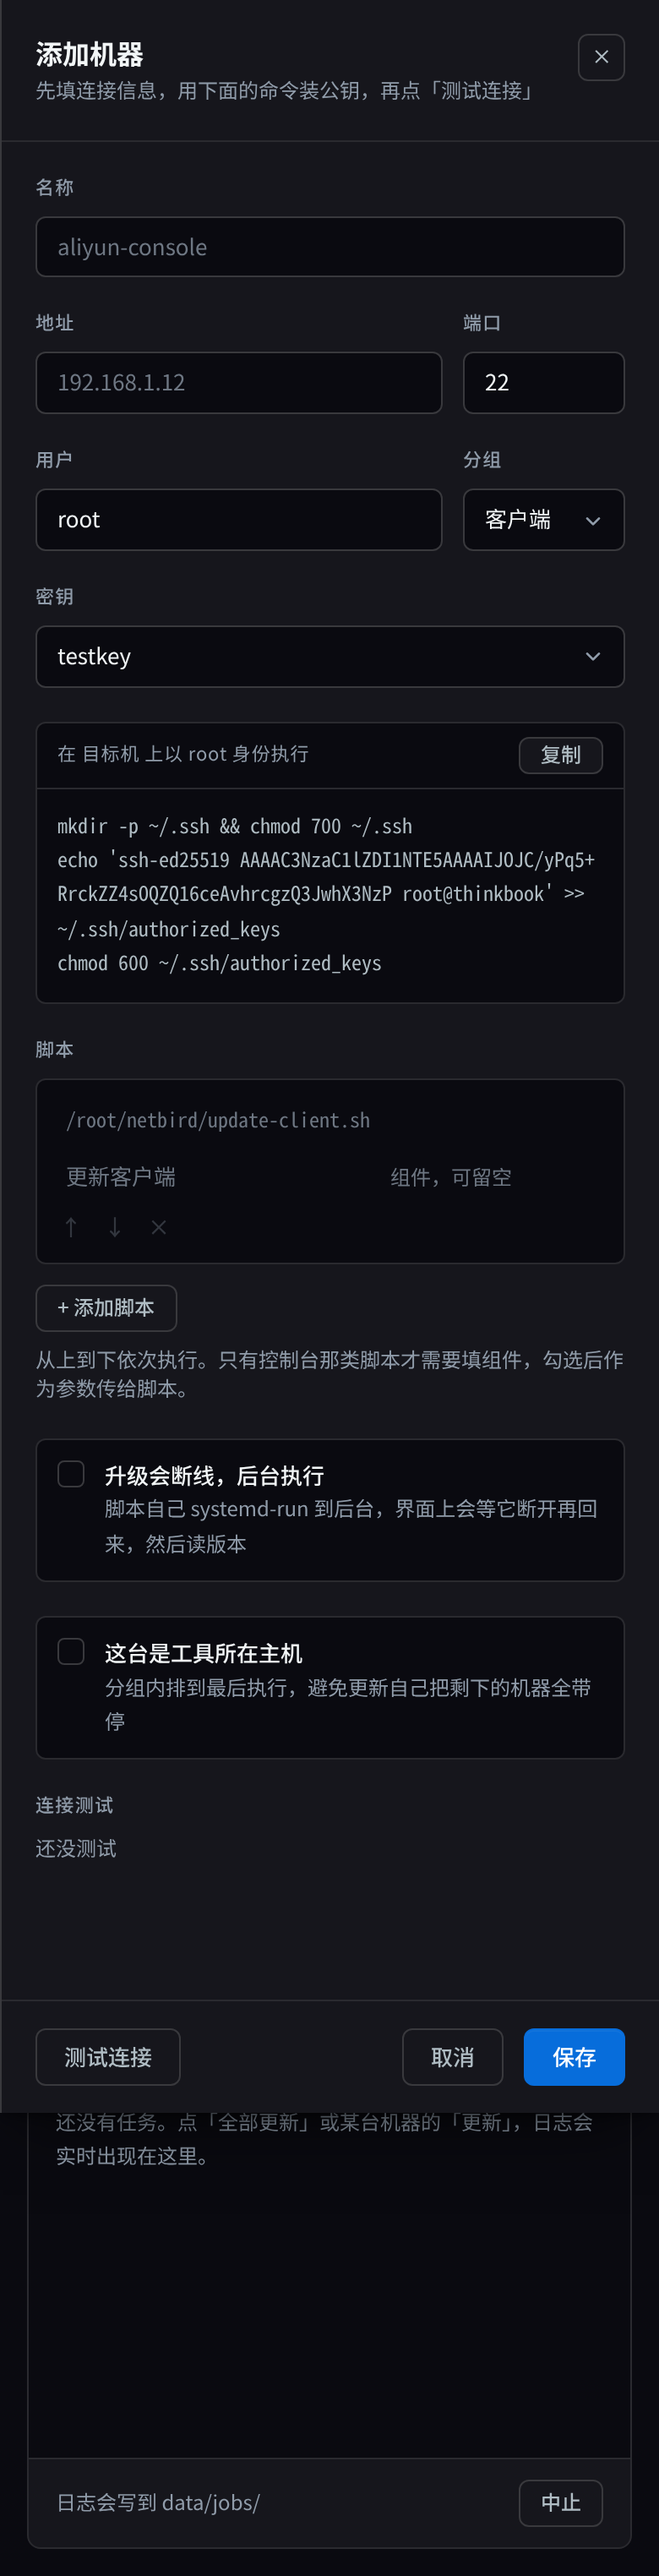
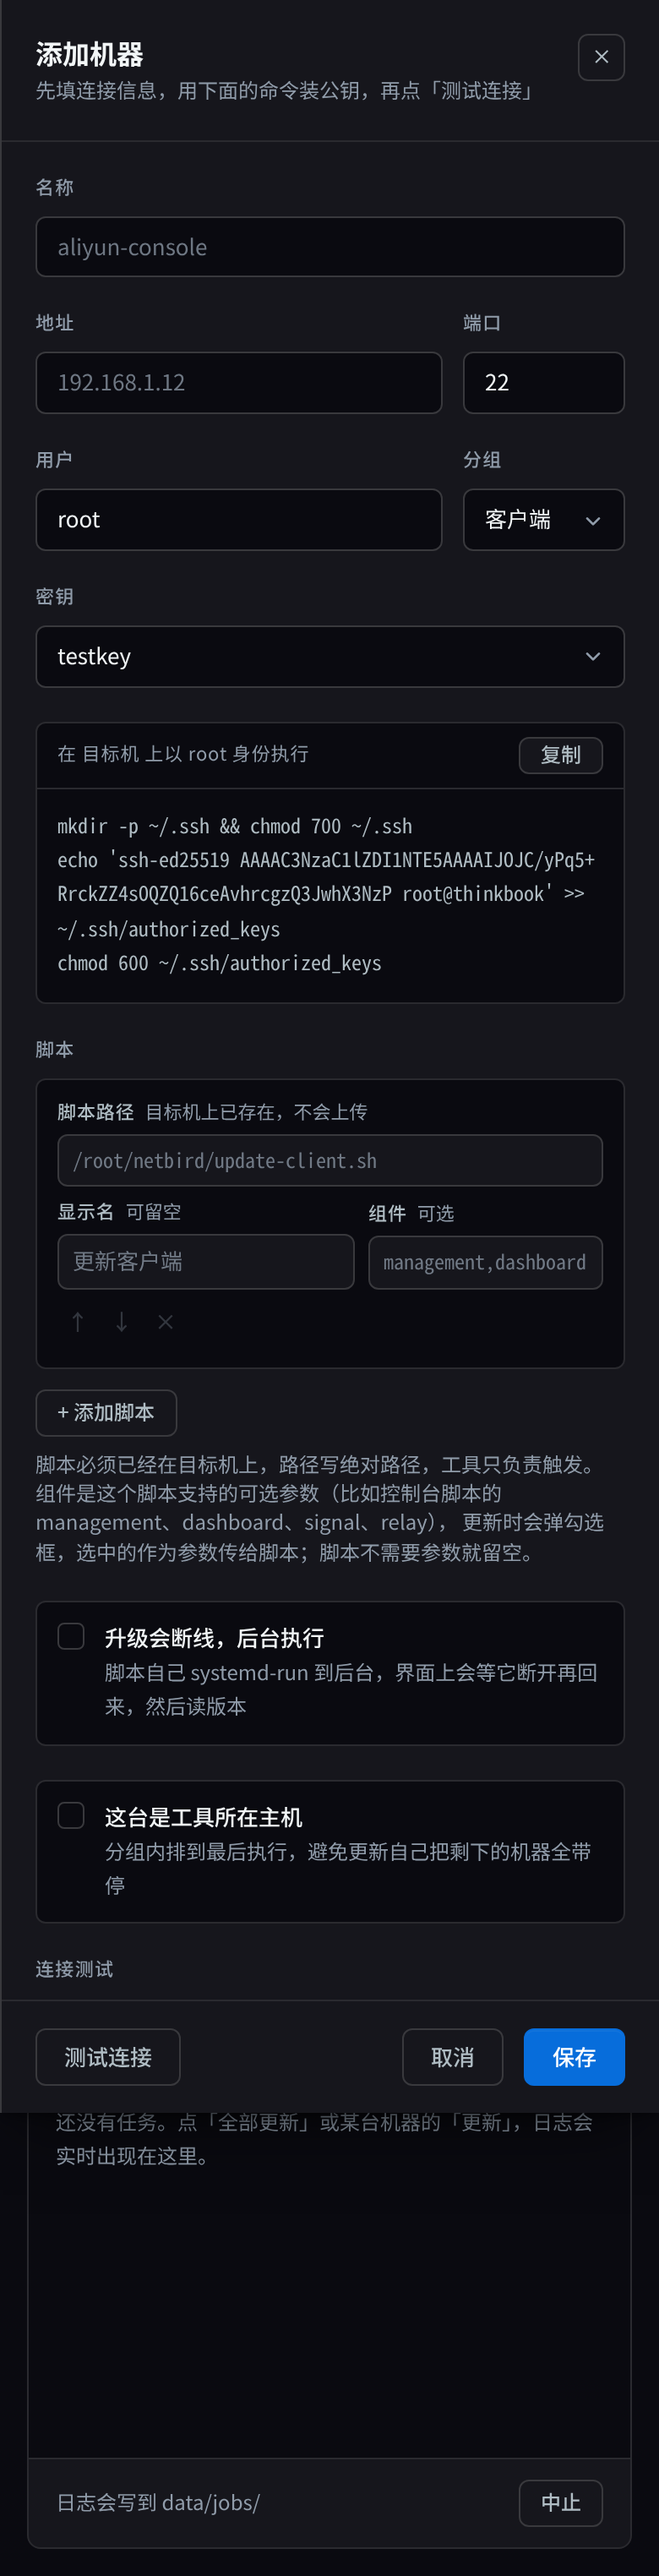
脚本行加字段标签和说明，密钥下拉说清「不使用密钥」的含义
- 每个脚本行：脚本路径（目标机上已存在）/ 显示名（可留空）/ 组件（可选），带小字说明
- 字段下方补一段解释：脚本不上传、组件是什么、怎么传给脚本
- 脚本输入框恢复可见边框，别再像纯文本
- 密钥下拉把「不使用密钥」挪到最后并写明它依赖默认 SSH 身份
- 没有密钥时下拉直接提示先去添加

diff --git a/static/app.js b/static/app.js
@@ -429,25 +429,47 @@ function confirmUpdate(hosts) {
 
 // ---------- 脚本行编辑器 ----------
 
+function scriptField(text, hint, input, wide = false) {
+  return el(
+    "label",
+    { class: `script-field${wide ? " script-field-wide" : ""}` },
+    el("span", { class: "script-label" }, text, hint ? el("span", { class: "script-label-hint", text: hint }) : null),
+    input,
+  );
+}
+
 function scriptRow(data = {}) {
   const row = el(
     "div",
     { class: "script-row" },
-    el("input", {
-      class: "input mono",
-      "data-f": "path",
-      placeholder: "/root/netbird/update-client.sh",
-      value: data.path || "",
-      spellcheck: "false",
-    }),
-    el("input", { class: "input", "data-f": "label", placeholder: "更新客户端", value: data.label || "" }),
-    el("input", {
-      class: "input mono",
-      "data-f": "options",
-      placeholder: "组件，可留空",
-      value: (data.options || []).join(","),
-      spellcheck: "false",
-    }),
+    scriptField(
+      "脚本路径",
+      "目标机上已存在，不会上传",
+      el("input", {
+        class: "input mono",
+        "data-f": "path",
+        placeholder: "/root/netbird/update-client.sh",
+        value: data.path || "",
+        spellcheck: "false",
+      }),
+      true,
+    ),
+    scriptField(
+      "显示名",
+      "可留空",
+      el("input", { class: "input", "data-f": "label", placeholder: "更新客户端", value: data.label || "" }),
+    ),
+    scriptField(
+      "组件",
+      "可选",
+      el("input", {
+        class: "input mono",
+        "data-f": "options",
+        placeholder: "management,dashboard",
+        value: (data.options || []).join(","),
+        spellcheck: "false",
+      }),
+    ),
     el(
       "div",
       { class: "script-tools" },
@@ -493,10 +515,17 @@ function collectScripts() {
 function fillKeys(selected) {
   const select = $("#f-key");
   select.textContent = "";
-  select.append(el("option", { value: "", text: state.keys.length ? "（不使用密钥 / 用默认 agent）" : "（还没有密钥）" }));
   for (const key of state.keys) {
     select.append(el("option", { value: key.name, text: key.name, selected: key.name === selected }));
   }
+  // 留一个「不用密钥」的口子：只适合在容器外跑、且依赖 ssh-agent / ~/.ssh 默认身份的场景
+  select.append(
+    el("option", {
+      value: "",
+      text: state.keys.length ? "不使用密钥（依赖默认 SSH 身份，容器里通常没有）" : "还没有密钥，先到下面「SSH 密钥」添加",
+      selected: !selected,
+    }),
+  );
 }
 
 function updateBootstrap() {

diff --git a/static/style.css b/static/style.css
@@ -1290,27 +1290,49 @@ input[type="number"]::-webkit-inner-spin-button {
 .script-row {
   display: grid;
   grid-template-columns: minmax(0, 1fr) minmax(0, 1fr) auto;
-  gap: 2px var(--s-2);
-  align-items: center;
-  padding: var(--s-2);
+  gap: var(--s-2);
+  align-items: end;
+  padding: var(--s-3);
   border: 1px solid var(--border);
   border-radius: var(--r-sm);
   background: var(--surface-0);
 }
 
-/* 路径独占一行：460px 的抽屉里三列并排会把路径挤得看不见 */
-.script-row [data-f="path"] {
+/* 路径独占一行：抽屉里三列并排会把路径挤得看不见 */
+.script-field-wide {
   grid-column: 1 / -1;
 }
 
-.script-row .input {
-  border-color: transparent;
-  background: transparent;
-  padding: 6px var(--s-2);
+.script-field {
+  display: flex;
+  flex-direction: column;
+  gap: 4px;
+  min-width: 0;
 }
 
-.script-row .input:hover {
-  border-color: var(--border);
+.script-label {
+  display: flex;
+  align-items: baseline;
+  gap: 6px;
+  font-size: var(--fs-label);
+  font-weight: 500;
+  letter-spacing: 0.04em;
+  color: var(--text-2);
+}
+
+.script-label-hint {
+  font-weight: 400;
+  letter-spacing: 0;
+  color: var(--text-3);
+}
+
+.script-row .script-tools {
+  padding-bottom: 2px;
+}
+
+.script-row .input {
+  padding: 6px var(--s-2);
+  background: var(--surface-1);
 }
 
 .script-row .input:focus {

diff --git a/static/index.html b/static/index.html
@@ -151,7 +151,11 @@
           <label>脚本</label>
           <div class="script-rows" id="script-rows"></div>
           <button class="btn btn-ghost btn-sm script-add" id="btn-add-script" type="button">+ 添加脚本</button>
-          <span class="hint">从上到下依次执行。只有控制台那类脚本才需要填组件，勾选后作为参数传给脚本。</span>
+          <span class="hint">
+            脚本必须已经在目标机上，路径写绝对路径，工具只负责触发。<br />
+            组件是这个脚本支持的可选参数（比如控制台脚本的 management、dashboard、signal、relay），
+            更新时会弹勾选框，选中的作为参数传给脚本；脚本不需要参数就留空。
+          </span>
         </div>
 
         <label class="check" for="f-detach">
